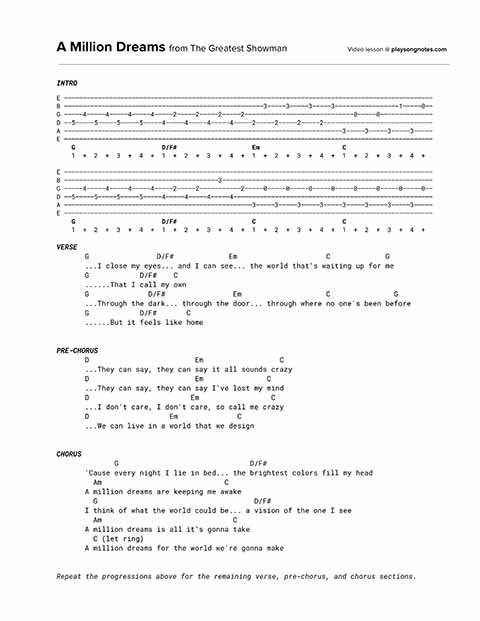
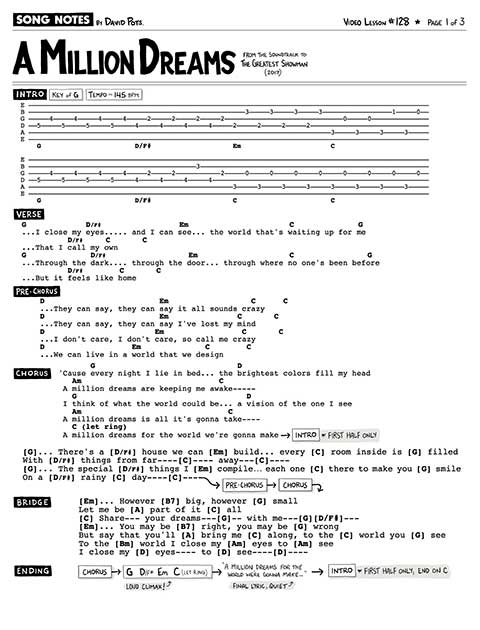
Adds 128 mn url

Changed region(s): [[0.0312, 0.0, 0.9688, 0.9485], [0.0312, 0.8873, 0.125, 0.9179], [0.8125, 0.4589, 0.8438, 0.5201]]

diff --git a/_lessons/128 [Greatest Showman] A Million Dreams.md b/_lessons/128 [Greatest Showman] A Million Dreams.md
@@ -11,8 +11,9 @@ yt_video_id: NpGEmNv265Q
 slug: "128"
 redirect_from:
   - /songs/greatest-showman-a-million-dreams/
-pdf_version: copyright
+pdf_version: musicnotes
 pdf_numpages: 3
+musicnotes_url: https://www.musicnotes.com/l/zvHMF
 patreon_lesson_available: true
 patreon_lesson_url: https://www.patreon.com/posts/24994190
 ---
@@ -25,154 +26,15 @@ patreon_lesson_url: https://www.patreon.com/posts/24994190
 
 ## Editor's notes
 
-In this lesson I'll show you how to play "A Million Dreams" from the soundtrack of The Greatest Showman - complete with chords, intro tabs, and strumming pattern help! Stick around, you'll enjoy yourself.
+In this lesson I'll show you how to play "A Million Dreams" from the soundtrack of The Greatest Showman - complete with chords, intro tabs, and strumming pattern help! Note, my video lesson above doesn't tackle the bridge -- but that section is indeed included my 3-page sheet music linked above.
 
 Lesson timestamps:
 
 - 0:58 Intro fingerpicking w/ tabs
 - 8:38 Verse/chorus chords & strumming
 
-## Play-along cover of entire song
+## My play-along cover
 
 Here's a video of me playing the intro, verse, pre-chorus, and chorus.
 
 <iframe width="560" height="315" src="https://www.youtube.com/embed/d1GmGrw_uB0?showinfo=0" frameborder="0" allowfullscreen></iframe>
-
-## Intro tab
-
-Here's the full tab:
-
-    E ––––––––––––––––––––––––––––––––––––––––––––––––––––––––––––––––––––––––––––––––––––––––––––––––––
-    B –––––––––––––––––––––––––––––––––––––––––––––––––––––3–––––3–––––3–––––3–––––––––––––––––1–––––0––
-    G –––––4–––––4–––––4–––––4–––––2–––––2–––––2–––––2–––––––––––––––––––––––––––––0–––––0––––––––––––––
-    D ––5–––––5–––––5–––––5–––––4–––––4–––––4–––––4–––––2–––––2–––––2–––––2–––––––––––––––––––––––––––––
-    A ––––––––––––––––––––––––––––––––––––––––––––––––––––––––––––––––––––––––––3–––––3–––––3–––––3–––––
-    E ––––––––––––––––––––––––––––––––––––––––––––––––––––––––––––––––––––––––––––––––––––––––––––––––––
-        G                       D/F#                    Em                      C
-        1  +  2  +  3  +  4  +  1  +  2  +  3  +  4  +  1  +  2  +  3  +  4  +  1  +  2  +  3  +  4  +
-
-    E ––––––––––––––––––––––––––––––––––––––––––––––––––––––––––––––––––––––––––––––––––––––––––––––––––
-    B –––––––––––––––––––––––––––––––––––––––––3––––––––––––––––––––––––––––––––––––––––––––––––––––––––
-    G –––––4–––––4–––––4–––––4–––––2–––––2–––––––––––2–––––0–––––0–––––0–––––0–––––0–––––0–––––0–––––0––
-    D ––5–––––5–––––5–––––5–––––4–––––4–––––4–––––4–––––––––––––––––––––––––––––––––––––––––––––––––––––
-    A ––––––––––––––––––––––––––––––––––––––––––––––––––3–––––3–––––3–––––3–––––3–––––3–––––3–––––3–––––
-    E ––––––––––––––––––––––––––––––––––––––––––––––––––––––––––––––––––––––––––––––––––––––––––––––––––
-        G                       D/F#                    C                       C
-        1  +  2  +  3  +  4  +  1  +  2  +  3  +  4  +  1  +  2  +  3  +  4  +  1  +  2  +  3  +  4  +
-
-If you're just learning this, first understand these key chord shapes (and add the fingerpicking only after you have these down pat):
-
-    E ––––––––––––––––––––––––––––––––––––––––––––––––––––––––––––––––––––––––––––––––––––––––––––––––––
-    B ––––––––––––––––––––––––––––––––––––––––––––––––––3–––––––––––––––––––––––––––––––––––––––––––––––
-    G ––4–––––––––––––––––––––––2–––––––––––––––––––––––––––––––––––––––––––––––0–––––––––––––––––––––––
-    D ––5–––––––––––––––––––––––4–––––––––––––––––––––––2–––––––––––––––––––––––––––––––––––––––––––––––
-    A ––––––––––––––––––––––––––––––––––––––––––––––––––––––––––––––––––––––––––3–––––––––––––––––––––––
-    E ––––––––––––––––––––––––––––––––––––––––––––––––––––––––––––––––––––––––––––––––––––––––––––––––––
-        G                       D/F#                    Em                      C
-        1  +  2  +  3  +  4  +  1  +  2  +  3  +  4  +  1  +  2  +  3  +  4  +  1  +  2  +  3  +  4  +
-
-## Intro tab chord finger positions
-
-This is how I recommend placing your left hand fingers when playing these chords. This will ensure the transitions are as easy as possible.
-
-    E ––––––
-    B ––––––
-    G ––4–––  <-- left middle
-    D ––5–––  <-- left ring
-    A ––––––
-    E ––––––
-        G    
-
-    E ––––––
-    B ––––––
-    G ––2–––  <-- left index
-    D ––4–––  <-- left ring
-    A ––––––
-    E ––––––
-       D/F#    
-
-    E ––––––
-    B ––3–––  <-- left pinky
-    G ––––––  
-    D ––2–––  <-- left middle
-    A ––––––
-    E ––––––
-        Em
-
-    E ––––––
-    B –(1)––  <-- left index
-    G ––0–––  <-- open (no left finger)
-    D ––––––  
-    A ––3–––  <-- left ring
-    E ––––––
-        C
-
-## Strumming
-
-Simplest strumming pattern is down strums on the 2 and 4 beats (make sure these get the accent).
-
-    1 + 2 + 3 + 4 + 1 + 2 + 3 + 4 +
-        D       D       D       D
-        >       >       >       >
-
-If you want to strum a bit more, do a "Down, down up... up down up..." that repeats. Likewise, accent the 2 and the 4 count.
-
-    1 + 2 + 3 + 4 + 1 + 2 + 3 + 4 +
-    D   D U   U D U D   D U   U D U
-        >       >       >       >-
-
-## Chord progressions for the song
-
-    VERSE
-    G . . . D/F# . . . Em . . . C . . .
-    G . . . D/F# . . . C  . . . C . . .
-                               (play 2x)
-
-    PRE-CHORUS
-    D . . . Em . . . C . . . C . . .     
-                            (play 4x)
-
-    CHORUS
-    G  . . . G  . . . D/F# . . . D/F# . . .
-    Am . . . Am . . . C    . . . C    . . .
-                                  (play 2x)
-
-## Lyrics w/ chords
-
-Note that "D" and "D/F#" are interchangeable... the latter is an optional voicing where you have F# as the bass note, the emphasize the descending bass line. If you don't already know (or want) to play D/F#, then just replace it below with a D wherever you see it.
-
-    VERSE
-    G                D/F#             Em                     C             G
-    ...I close my eyes... and I can see... the world that's waiting up for me
-    G            D/F#    C
-    ......That I call my own
-    G              D/F#                Em                    C               G
-    ...Through the dark... through the door... through where no one's been before
-    G            D/F#       C
-    ......But it feels like home
-
-
-    PRE-CHORUS
-    D                         Em                  C
-    ...They can say, they can say it all sounds crazy
-    D                         Em               C
-    ...They can say, they can say I've lost my mind
-    D                        Em                 C
-    ...I don't care, I don't care, so call me crazy
-    D                   Em              C
-    ...We can live in a world that we design
-
-
-    CHORUS
-           G                               D/F#
-    'Cause every night I lie in bed... the brightest colors fill my head
-      Am                             C
-    A million dreams are keeping me awake
-      G                                     D/F#
-    I think of what the world could be... a vision of the one I see
-      Am                               C
-    A million dreams is all it's gonna take
-      C (let ring)
-    A million dreams for the world we're gonna make
-
-Repeat the progressions above for the additional verse and pre-chorus and chorus sections. Thanks and good luck!

diff --git a/backlog.md b/backlog.md
@@ -18,6 +18,7 @@ permalink: /backlog/
 
 Sheet music for the following songs are all available for purchase at Musicnotes.com. Each arrangement is officially licensed & legal, and also uses my latest sheet music formatting.
 
+    Apr 7  - A Million Dreams
     Apr 6  - Banded Clovis
     Apr 5  - Walk Right In
     Mar 6  - Lola
@@ -31,7 +32,7 @@ Sheet music for the following songs are all available for purchase at Musicnotes
     Jan 4  - The Wind
     Jan 4  - Dead Flowers
     Dec 10 - Yesterday
-    Nov 30 - Happy Xmas 
+    Nov 30 - Happy Xmas
     Nov 23 - Mrs Robinson
     Nov 22 - Hotel California
     Nov 12 - Hello In There
@@ -56,7 +57,6 @@ Sheet music for the following songs are all available for purchase at Musicnotes
 
     Stairway to Heaven          XXXXXXXXXXXXXXXXXXXXXXXXXXXXXXXXXXXX
 
-    A Million Dreams •          XXXXXXXXX
     Always Remember Us This Way XXXXXXXXXX
     American Girl               XXXXXXXX
     California Dreaming         XXXXXXXX
@@ -96,7 +96,7 @@ Sheet music for the following songs are all available for purchase at Musicnotes
 <br />
 <h3>1-2 requests:</h3>
 
-    7 Years                     X
+    7 Years                     XX
     About a Girl                X
     Acid Tongue                 XX
     Apple Blossom               X
